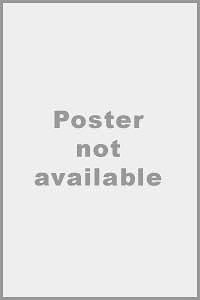
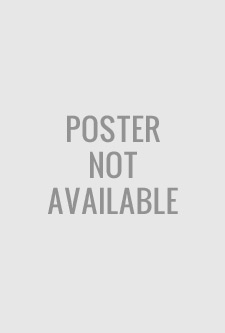
Add more styling to movie cards.

Changed region(s): [[0.0, 0.0, 1.0, 1.0], [0.18, 0.33, 0.81, 0.66]]

diff --git a/src/components/App.tsx b/src/components/App.tsx
@@ -2,6 +2,7 @@ import * as React from 'react';
 import {useState} from 'react';
 import {connect} from 'react-redux';
 import _ from 'lodash/fp';
+import styled from 'styled-components';
 import '../index.css';
 import SearchInput from './SearchInput';
 import SearchResults from './SearchResults';
@@ -11,16 +12,17 @@ import * as types from '../types';
 import * as reduxTypes from '../redux/types';
 
 interface AppProps {
+  className?: string,
   moviesStatus?: reduxTypes.MoviesStatus,
   movies?: types.Movie[],
   searchForMovies: Function,
 }
 
-const App = ({movies, moviesStatus, searchForMovies}: AppProps) => {
+const App = styled(({className, movies, moviesStatus, searchForMovies}: AppProps) => {
   const [searchInputText, setSearchInputText] = useState('');
   // todo add onKeyDown Enter
   return (
-    <div className="App">
+    <div className={className}>
       <SearchInput
         className="search-input"
         placeholder="Enter movie title"
@@ -37,7 +39,10 @@ const App = ({movies, moviesStatus, searchForMovies}: AppProps) => {
       <SearchResults movies={movies} />
     </div>
   );
-};
+})`
+  margin: auto;
+  max-width: 700px;
+`;
 
 export default connect(
   _.pick(['moviesStatus', 'movies']),

diff --git a/src/components/MovieCard/MovieCardInfo.tsx b/src/components/MovieCard/MovieCardInfo.tsx
@@ -1,5 +1,6 @@
 import * as React from 'react';
 import styled from 'styled-components';
+import * as styles from '../../styles';
 
 interface MovieCardInfoProps {
   className?: string;
@@ -10,11 +11,35 @@ interface MovieCardInfoProps {
 const MovieCardInfo = styled(({className, title, year}: MovieCardInfoProps) => {
   return (
     <div className={className}>
-      <h2>Title: {title}</h2>
+      <h2>{title}</h2>
       <p>Year of release: {year}</p>
     </div>
   );
 })`
+  width: 100%;
+  padding: 0 20px;
+  border-radius: ${styles.borderRadius}px;
+  box-shadow: ${styles.cardBoxShadow};
+  overflow: hidden;
+  margin-left: 10px;
+  word-break: break-all;
+
+  h2 {
+    font-weight: normal;
+    font-size: 24px;
+  }
+  
+  @media (max-width: ${styles.rwdBreakpoints[1]}px) {
+    h2 {
+      font-size: 21px;
+    }
+  }
+  
+  @media (max-width: ${styles.rwdBreakpoints[2]}px) {
+    width: auto;
+    margin-left: 0;
+    text-align: center;
+  }
 `;
 
 export default MovieCardInfo;

diff --git a/src/components/MovieCard/MovieCardPosterImg.tsx b/src/components/MovieCard/MovieCardPosterImg.tsx
@@ -1,10 +1,24 @@
 import styled from 'styled-components';
+import * as styles from '../../styles';
 
 // Standard movie poster aspect ratio is 27x40 or 0.675
-const posterWidth = '200px';
+const posterWidth = 200;
+const posterWidthCompact = 150;
 
 const MovieCardPosterImg = styled.img`
-  width: ${posterWidth};
+  align-self: flex-start;
+  ${styles.widthAndMinWidth(posterWidth)}
+  border-radius: ${styles.borderRadius}px;
+  box-shadow: ${styles.cardBoxShadow};
+  overflow: hidden;
+  @media (max-width: ${styles.rwdBreakpoints[1]}px) {
+    ${styles.widthAndMinWidth(posterWidthCompact)}
+  }
+  @media (max-width: ${styles.rwdBreakpoints[2]}px) {
+    margin: 0 auto 10px;
+    max-width: 100%;
+    width: ${posterWidth}px;
+  }
 `;
 
 export default MovieCardPosterImg;

diff --git a/src/components/MovieCard/index.tsx b/src/components/MovieCard/index.tsx
@@ -1,6 +1,7 @@
 import * as React from 'react';
 import styled from 'styled-components';
 import * as types from '../../types';
+import * as styles from '../../styles';
 import MovieCardPosterImg from './MovieCardPosterImg';
 import MovieCardInfo from './MovieCardInfo';
 import posterPlaceholder from '../../images/moviePosterNotAvailable.jpg';
@@ -19,6 +20,11 @@ const MovieCard = styled(({className, movie}: MovieCardProps) => {
   );
 })`
   display: flex;
+  margin-bottom: 40px;
+  @media (max-width: ${styles.rwdBreakpoints[2]}px) {
+    flex-direction: column;
+    margin-bottom: 60px;
+  }
 `;
 
 export default MovieCard;

diff --git a/src/styles.ts b/src/styles.ts
@@ -1,0 +1,15 @@
+// Here are kept all common style configuration and utils used across all components.
+
+export const borderRadius = 10;
+
+export const cardBoxShadow = '2px 4px 10px rgba(0, 0, 0, 0.2)';
+
+export const rwdBreakpoints = {
+  1: 599,
+  2: 419,
+};
+
+export const widthAndMinWidth = (width: number) => `
+  width: ${width}px;
+  min-width: ${width}px;
+`;

diff --git a/src/components/SearchButton.tsx b/src/components/SearchButton.tsx
@@ -4,10 +4,10 @@ const SearchButton = styled.button`
   color: white;
   background: var(--primary-color);
   border: none;
-  border-radius: 2px;
+  border-radius: 4px;
   width: 100%;
   padding: 15px 0;
-  margin-bottom: 20px;
+  margin-bottom: 40px;
   text-align: center;
   text-decoration: none;
   display: inline-block;

diff --git a/src/components/SearchInput.tsx b/src/components/SearchInput.tsx
@@ -3,7 +3,7 @@ import styled from 'styled-components';
 const SearchInput = styled.input`
   background: var(--light-grey);
   border: solid 1px var(--dark-grey);
-  border-radius: 2px;
+  border-radius: 4px;
   display: block;
   width: 100%;
   box-sizing: border-box;

diff --git a/src/index.css b/src/index.css
@@ -1,3 +1,4 @@
+/* Minimal global styles. Other styling done by styled-component */
 body {
   font: 18px Arial;
   margin: 20px;
